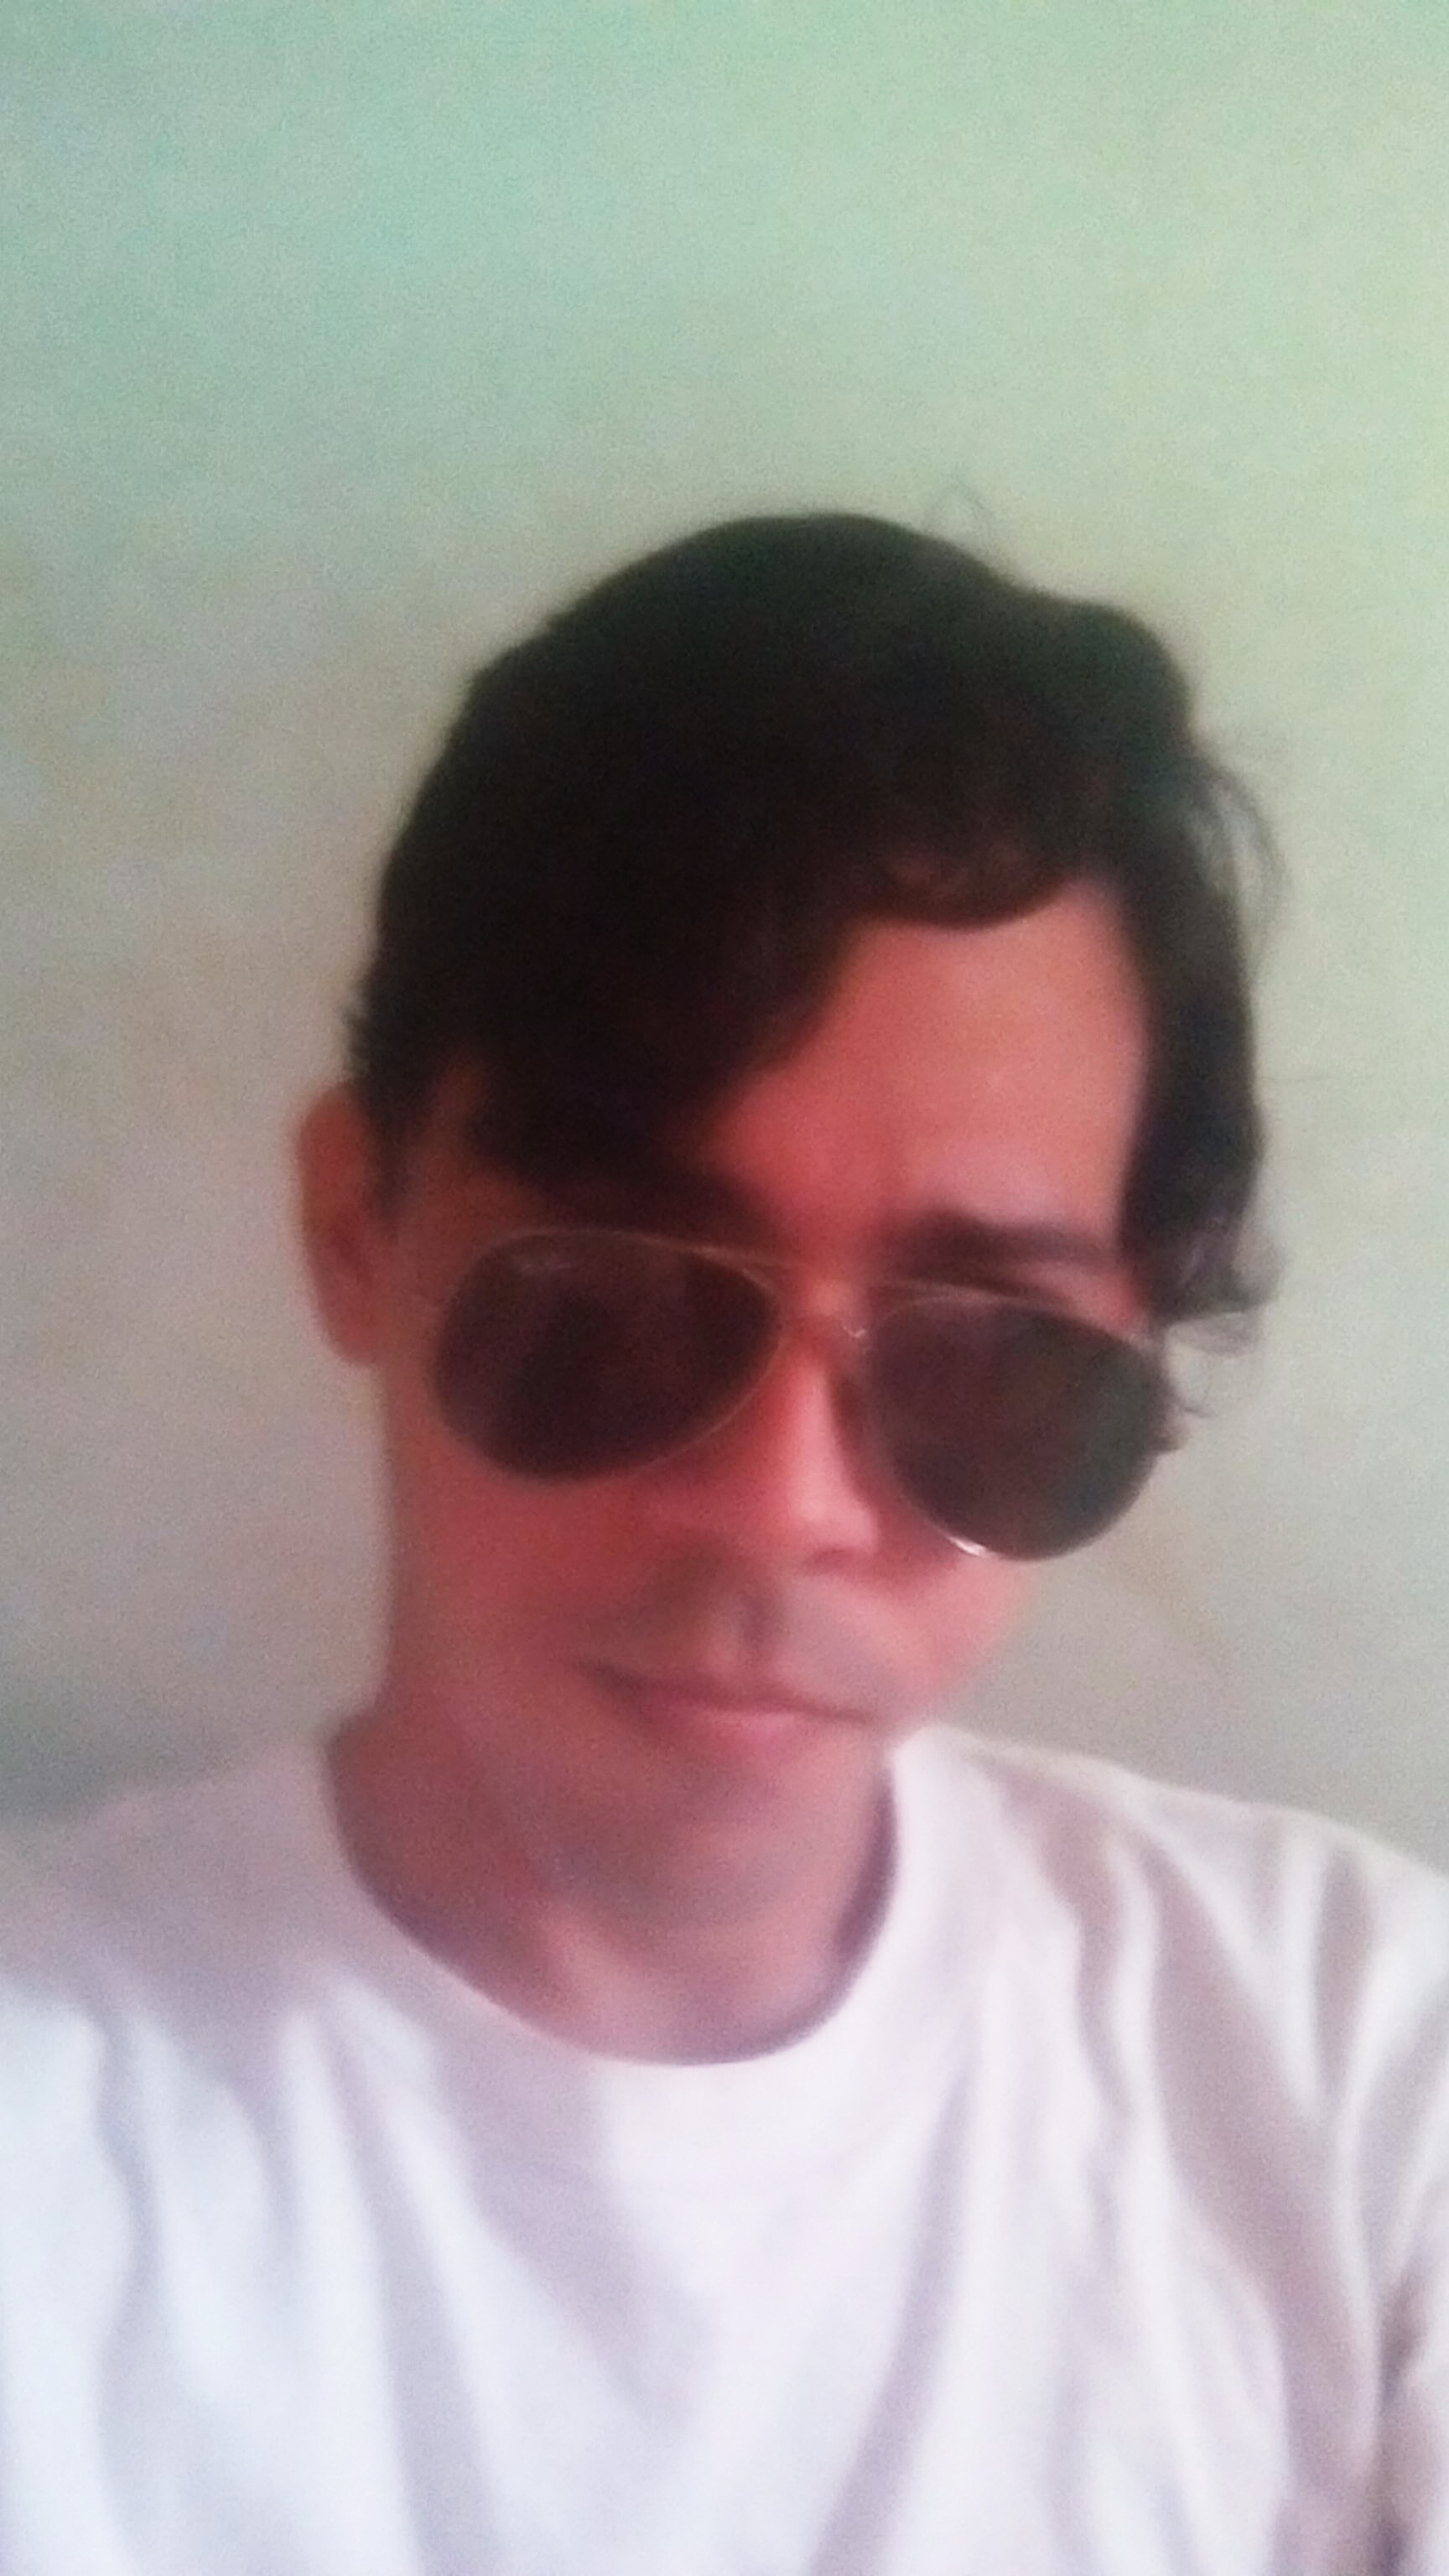
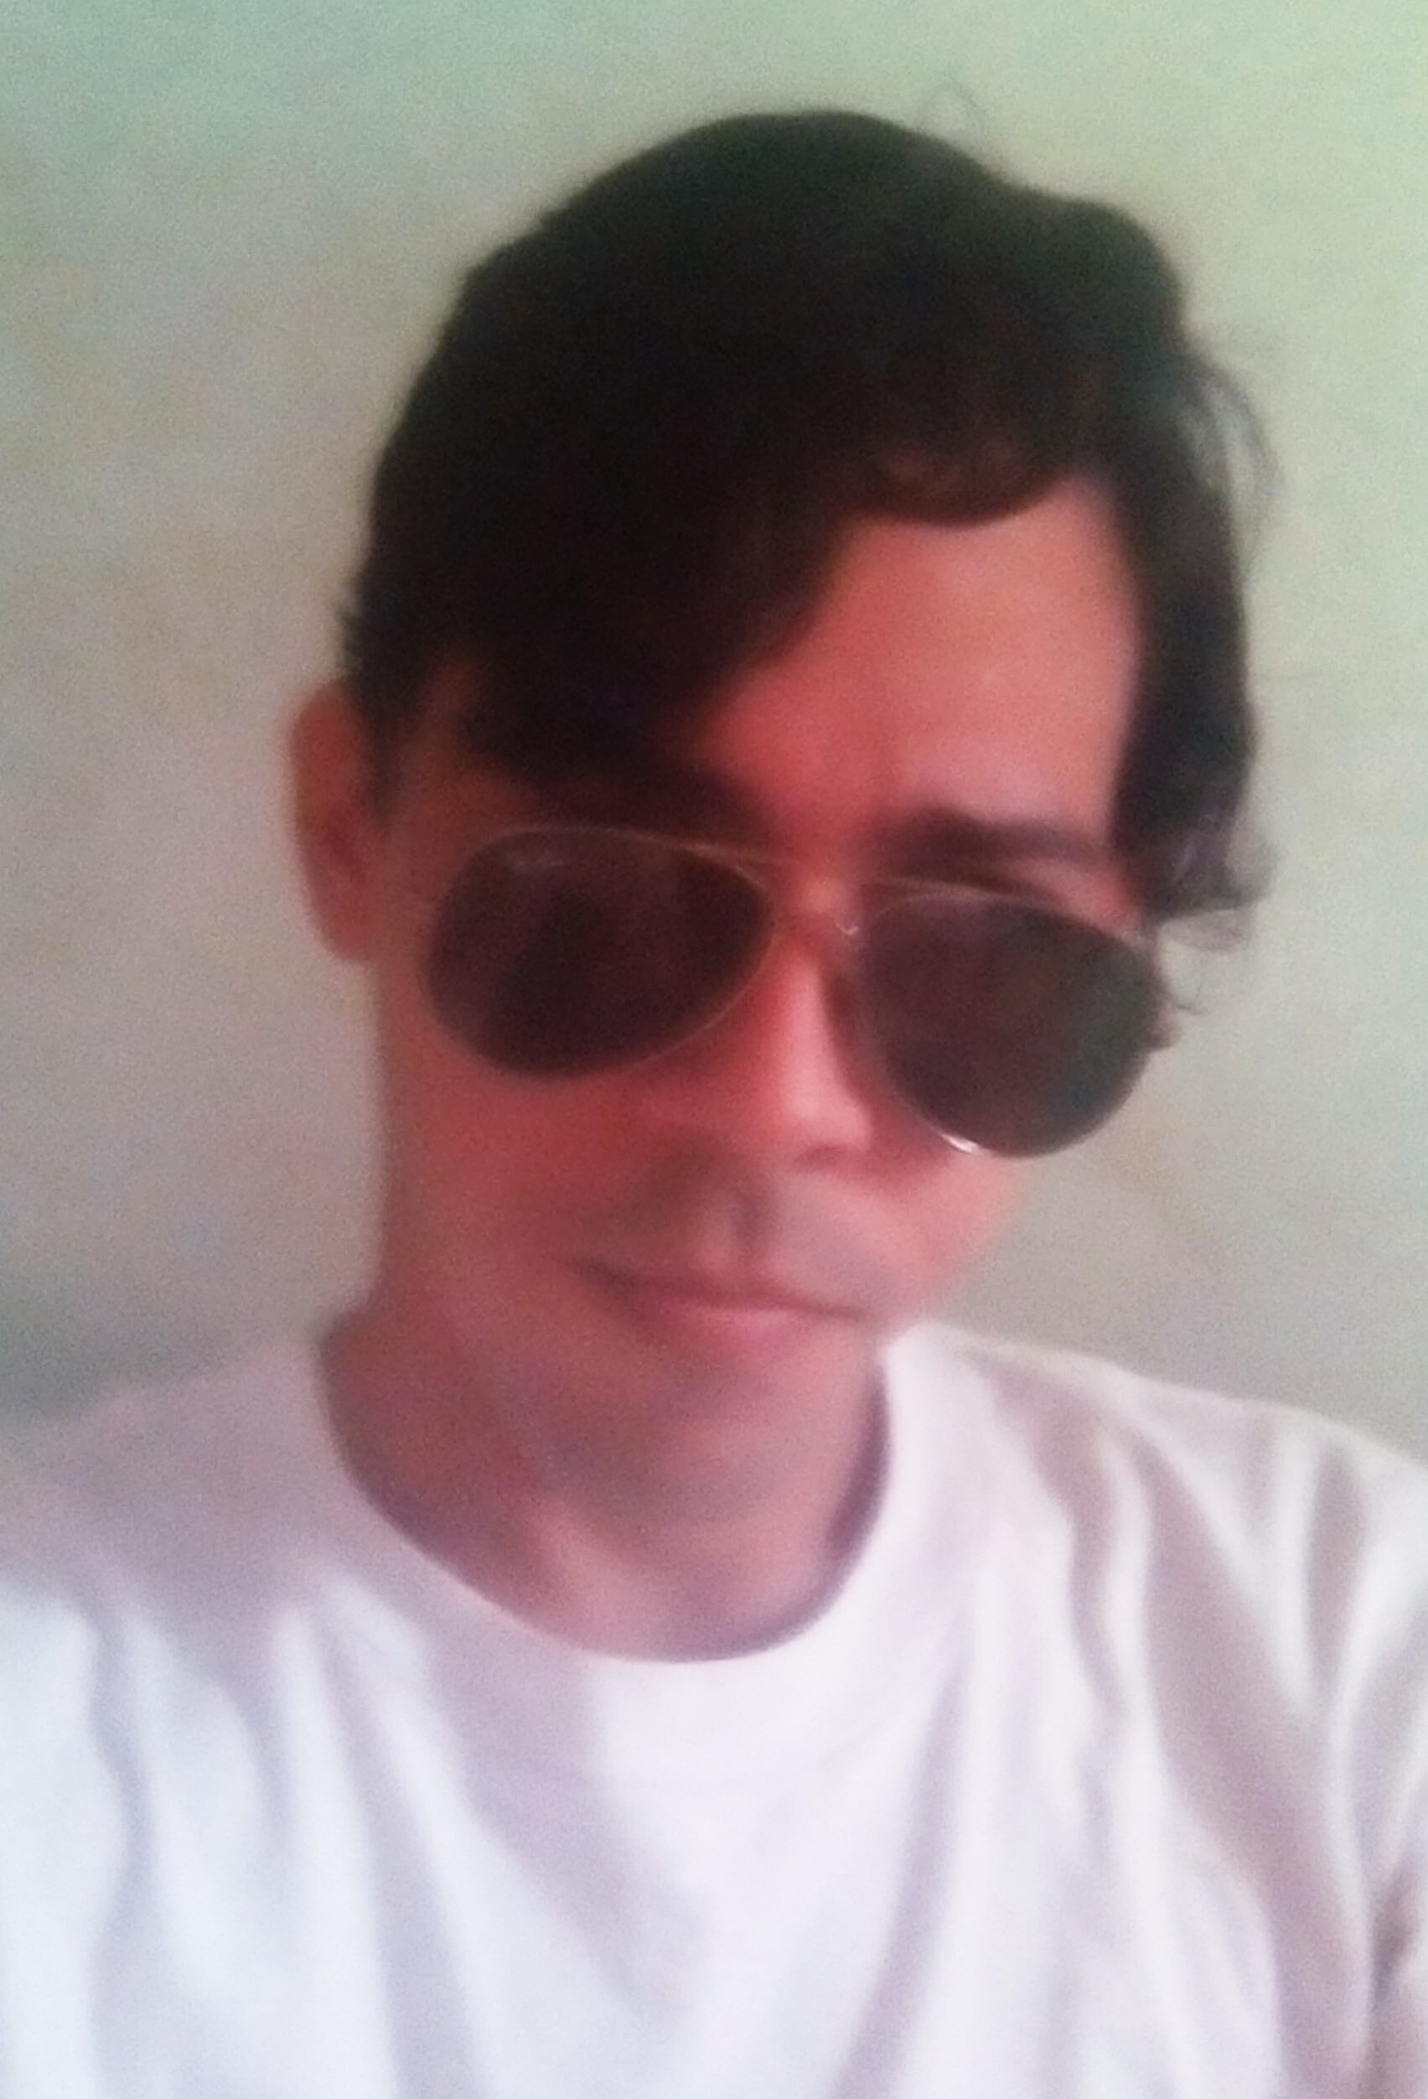
Update 1.1

diff --git a/css/style.css b/css/style.css
@@ -1,9 +1,8 @@
 /* HEADER */
 #header {
-    background-image: url(../img/wall.png);
+    background-image: url(../img/back3.jpg);
     background-size: cover;
     background-repeat: no-repeat;
-    opacity: 90%;
     margin: auto;
     width: 100%;
     height: 700px;

diff --git a/index.php b/index.php
@@ -47,12 +47,19 @@
     <div class="container">
       <div class="row">
         <div class="cont">
-          <h1>Soto Yoshua | Desarrollador Web y Analista de Mercados Bursátiles </h1>
+          <h1>Soto Yoshua | Analista de Sistemas y Mercados Bursátiles </h1>
           <br>
-          <p class="h5">Me llamo Yoshua Soto, soy Desarrollador Web y Programador BackEnd, me especializo como Analísta de Sistemas y habilidad en 
-            desarrollo en los Mercados Bursátiles, lee mi web para saber más sobre mi.
+          <p class="h5">Soy un joven Analista de Sistemas,
+            con más de 5 años de experiencia en
+            el campo del IT, tengo conocimientos
+            de programación en los lenguajes de
+            Python y PHP. Actualmente me
+            desempeño Analista de Mercados
+            Bursátiles, participo en los mercados
+            de FOREX y Criptomonedas de
+            Bitcoin, Solana y Tron.
           </p>
-          <hr>
+          <hr style="background: white;">
           <a href="#contact" class="btn btn-primary btn-lg" id="btn1">Contactame</a>
           <i class="fab fa-twitter"></i>
         </div>
@@ -64,7 +71,7 @@
     <div class="container">
       <div class="row">
         <div class="col-md-6" id="photo-main">
-          <img src="img/photo2.jpg" alt="" height="400" class="p-5">
+          <img src="img/photo2.jpg" alt="" height="600" class="p-5">
         </div>
         <div class="col-md-6 p-3" id="profil-main">
           <h1>Sobre mi</h1>
